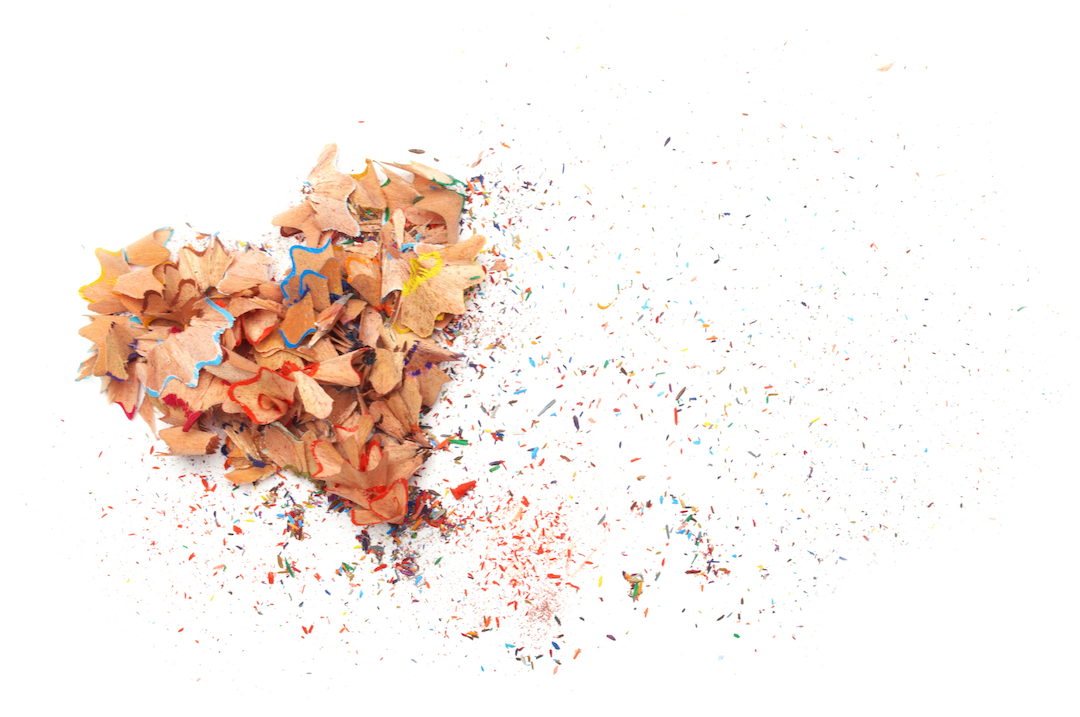
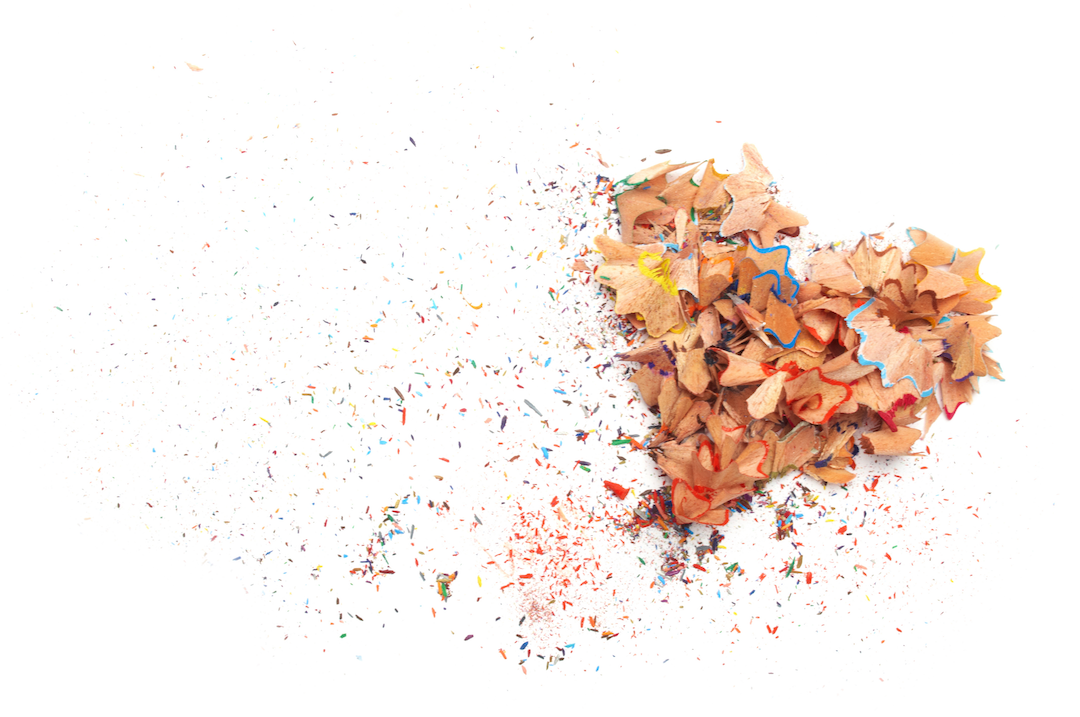
background added to all fields

diff --git a/client/app/auth/signup.html b/client/app/auth/signup.html
@@ -1,17 +1,17 @@
 <div class="container">
-    <div class="row">
-        <div class="col-md-12">
-            <div>
-            </div>
-            <div class="wrap">
-                <p class="form-title">
-                    Sign Up</p>
-                <form class="login" ng-submit="signup.postNew()">
-                <input type="text" placeholder="Username" ng-model="signup.username" />
-                <input type="password" placeholder="Password" ng-model="signup.password" />
-                <input type="submit" value="Sign Up" class="btn btn-success btn-sm" />
-                </form>
-            </div>
+  <div class="row">
+    <div class="col-md-12">
+      <div>
+      </div>
+      <div class="wrap">
+        <p class="form-title">
+            Sign Up</p>
+        <form class="login" ng-submit="signup.postNew()">
+        <input type="text" placeholder="Username" ng-model="signup.username" />
+        <input type="password" placeholder="Password" ng-model="signup.password" />
+        <input type="submit" value="Sign Up" class="btn btn-success btn-sm" />
+        </form>
         </div>
     </div>
+  </div>
 </div>

diff --git a/client/app/auth/signin.html b/client/app/auth/signin.html
@@ -1,17 +1,18 @@
 <div class="container">
     <div class="row">
-        <div class="col-md-12">
-            <div>
-            </div>
-            <div class="wrap">
-                <p class="form-title">
-                    Sign In</p>
-                <form class="login" ng-submit="auth.post()">
-                <input type="text" placeholder="Username" ng-model="auth.username" />
-                <input type="password" placeholder="Password" ng-model="auth.password"/>
-                <input type="submit" value="Sign In" class="btn btn-success btn-sm" />
-                </form>
-            </div>
+      <div class="col-md-12">
+        <div>
         </div>
+        <div class="wrap">
+          <p class="form-title">
+              Sign In</p>
+          <form class="login" ng-submit="auth.post()">
+          <input type="text" placeholder="Username" ng-model="auth.username" />
+          <input type="password" placeholder="Password" ng-model="auth.password"/>
+          <input type="submit" value="Sign In" class="btn btn-success btn-sm" />
+          </form>
+        </div>
+      </div>
     </div>
+  </div>
 </div>

diff --git a/client/styles/styles.css b/client/styles/styles.css
@@ -5,12 +5,15 @@
   /* the fixed height and width could be a problem later if we change canvas size */
   height: 524px;
   width: 524px;
-},
-img {
-background-image: url("../assets/shutterstock_57258430.png");
-background-repeat: no-repeat;
-width: auto; /*or your image's width*/
-height: auto; /*or your image's height*/
-margin: 0;
-padding: 0;
+}
+/*.signin {
+  background-image: url('../assets/shutterstock_57258430.png');
+}
+*/
+body {
+  background: url('../assets/shutterstock_57258430.png') no-repeat center center fixed;
+  -webkit-background-size: cover;
+  -moz-background-size: cover;
+  -o-background-size: cover;
+  background-size: cover;
 }

diff --git a/client/index.html b/client/index.html
@@ -39,8 +39,6 @@
   </div>
 
   <div class="container">
-    <img src="../assets/shutterstock_57258430.png">
-
 
       <!-- inject content here -->
       <div ui-view></div>
